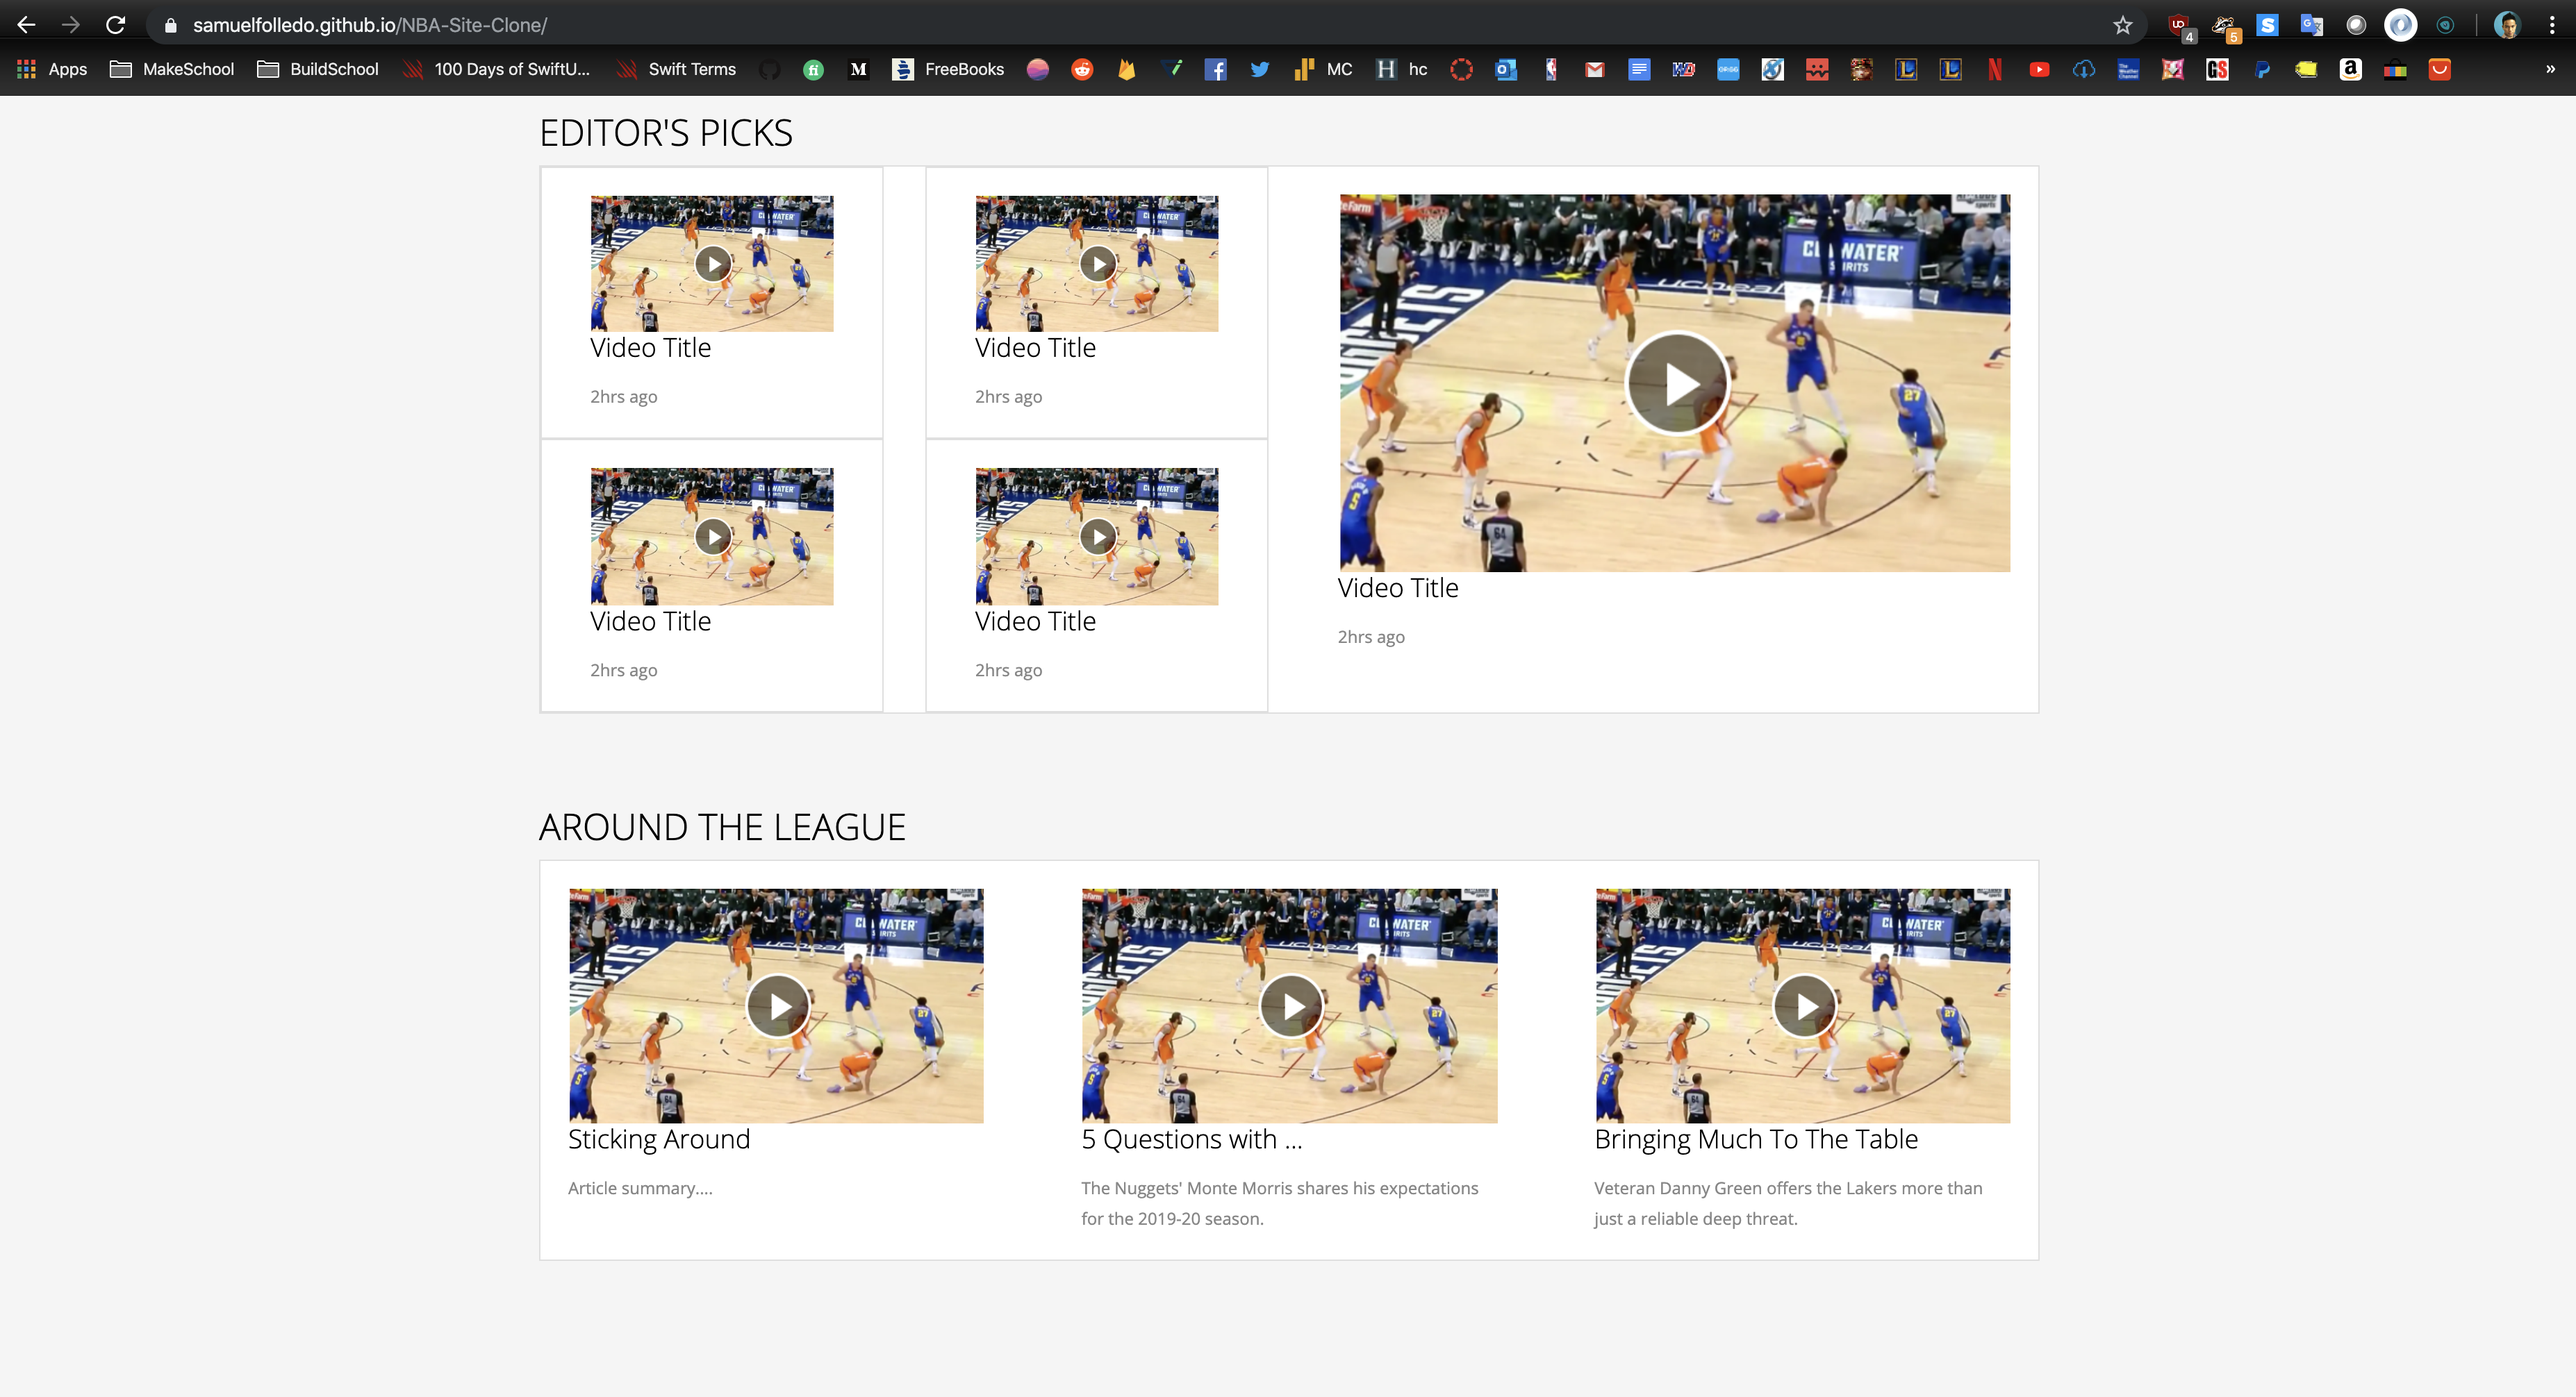
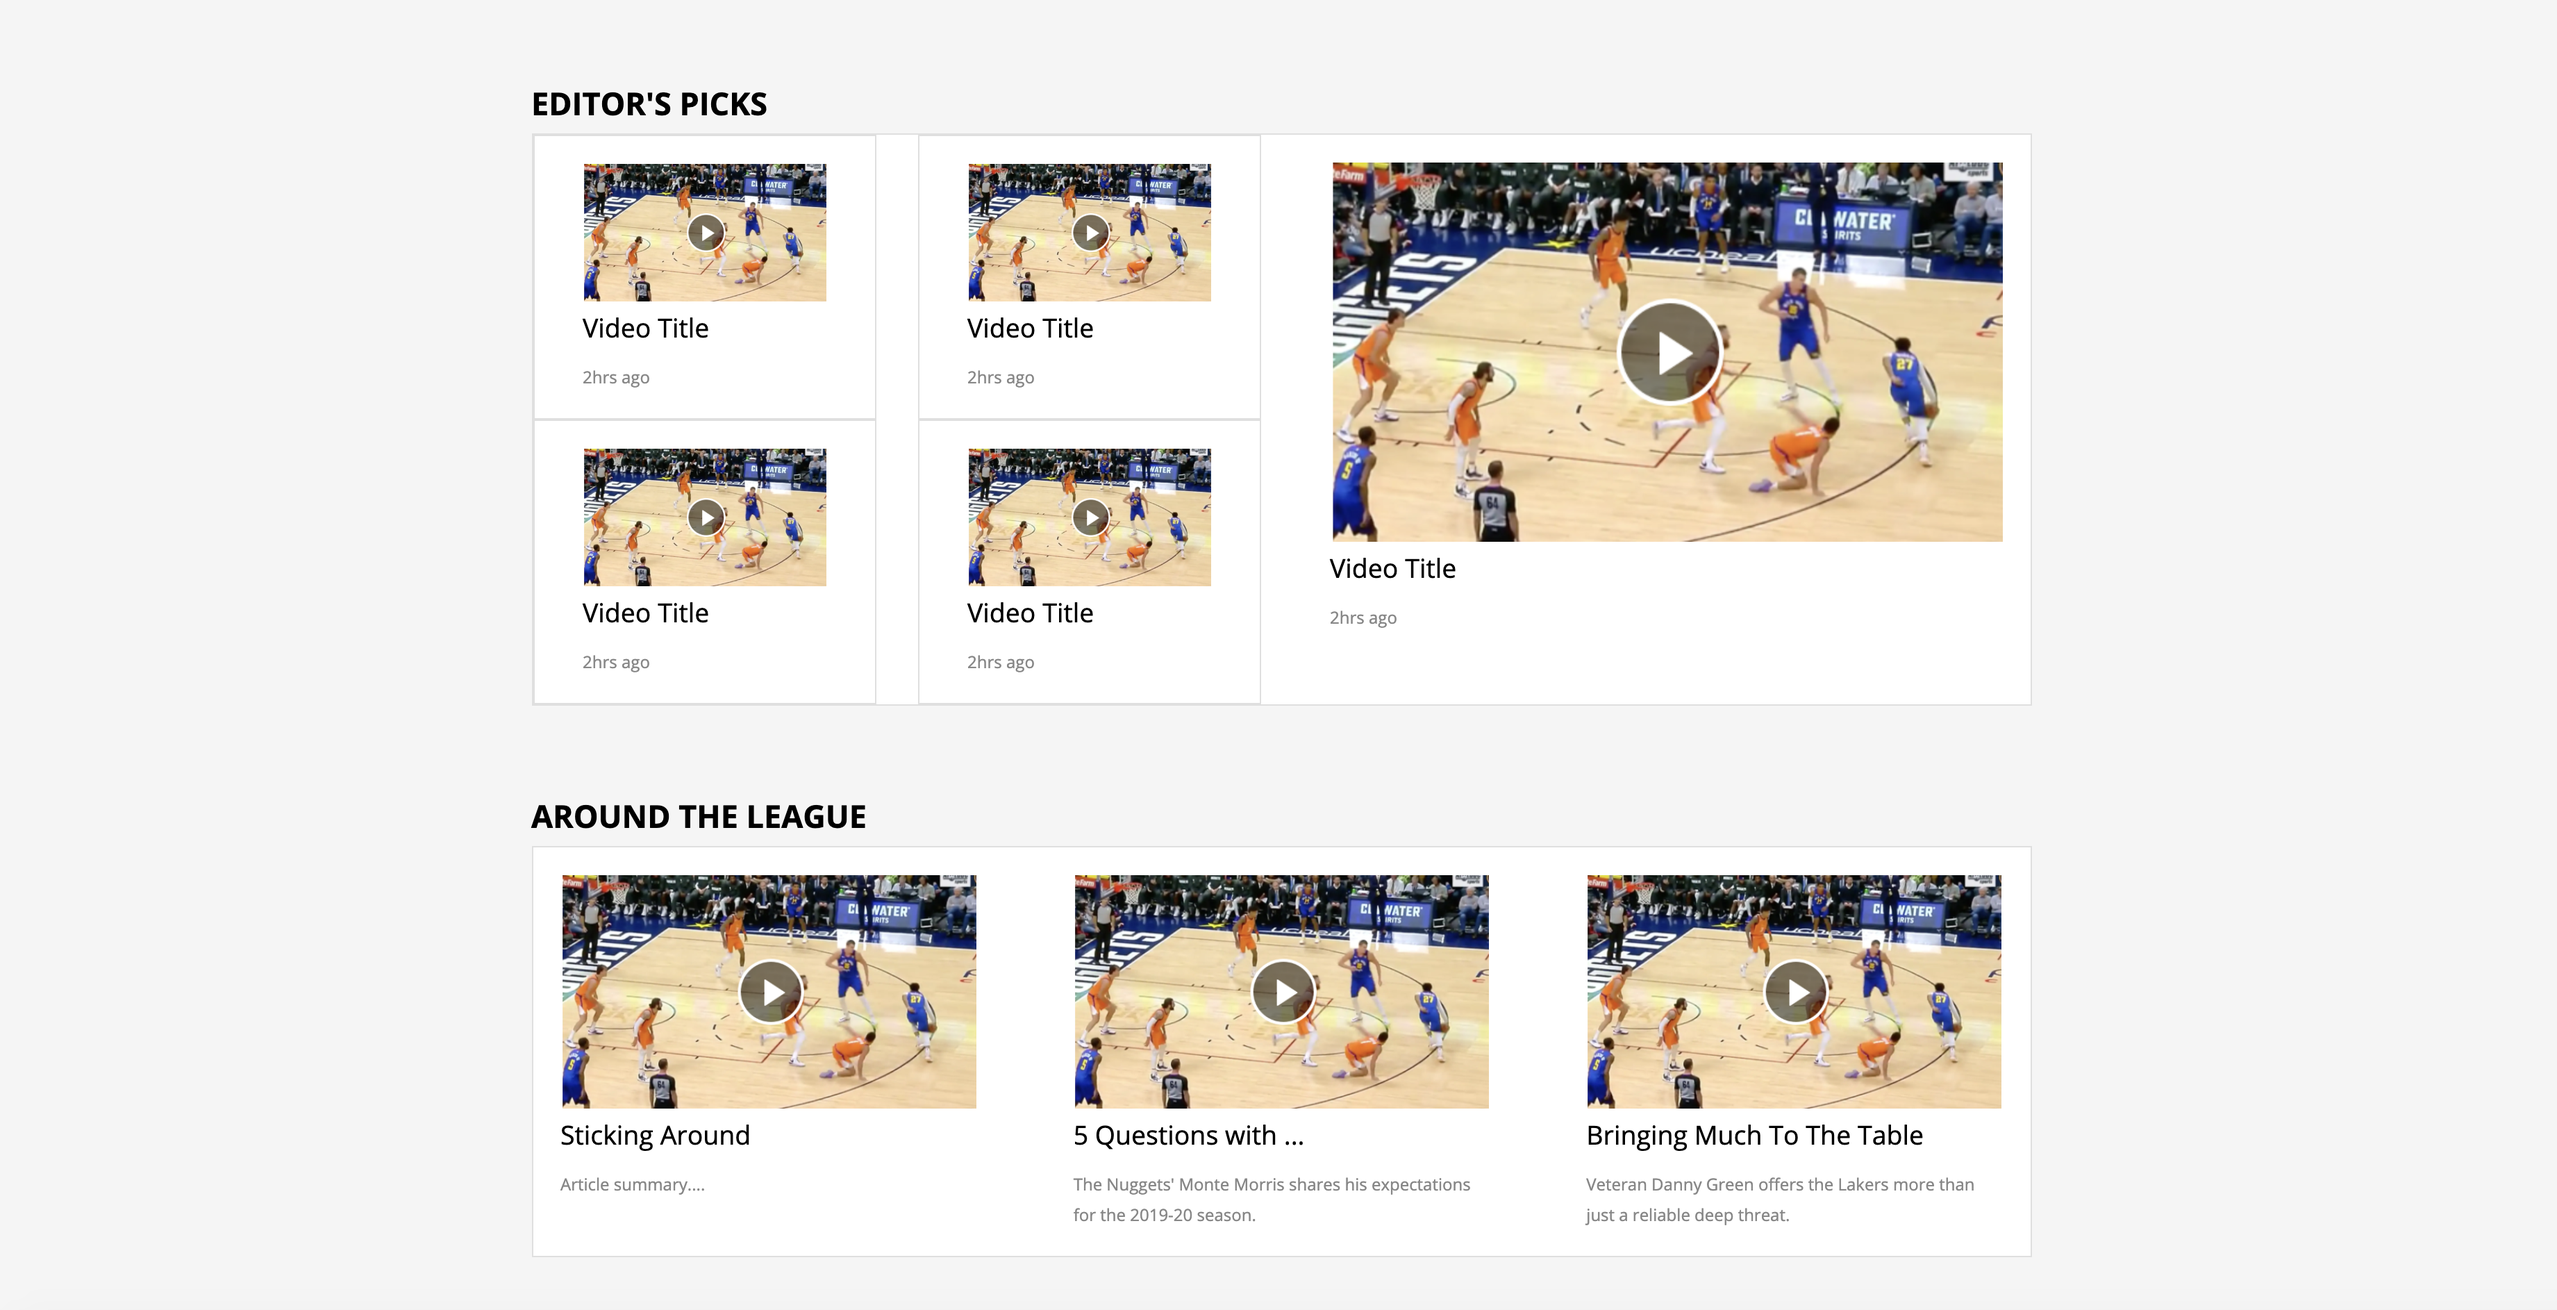
[add] added screenshots and updated ReadMe.md screenshot images

Changed region(s): [[0.1874, 0.5843, 0.7808, 0.9533], [0.0, 0.0, 1.0, 0.5228], [0.3748, 0.123, 0.7808, 0.5228]]

diff --git a/ReadMe.md b/ReadMe.md
@@ -10,8 +10,11 @@ NBA's nba.com website clone for my Software Product Development (SPD1.2) class i
 - CSS
 
 ## Screenshots
-### Navigation Bar and Jumbotron
-![Navigation Bar and Jumbotron](/static/screenshots/navAndJumbo.png)
+### Home and Navigation Bar
+![Home and Navigation Bar](/static/screenshots/home.png)
+---
+### Home's Navigation Dropdown with Carousel
+![Home's Navigation Dropdown with Carousel](/static/screenshots/navDropDown.png)
 ---
 ### About Last Night and Features
 ![About Last Night and Features](/static/screenshots/features.png)
